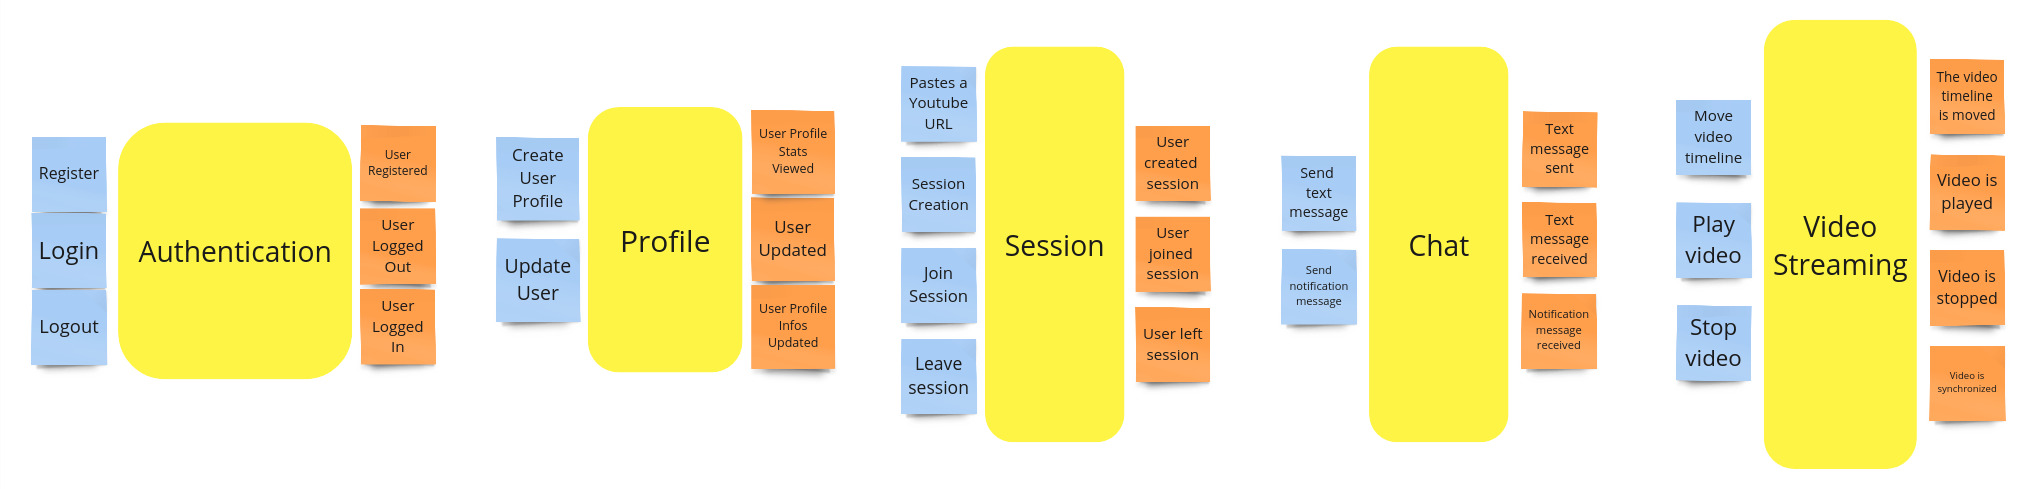
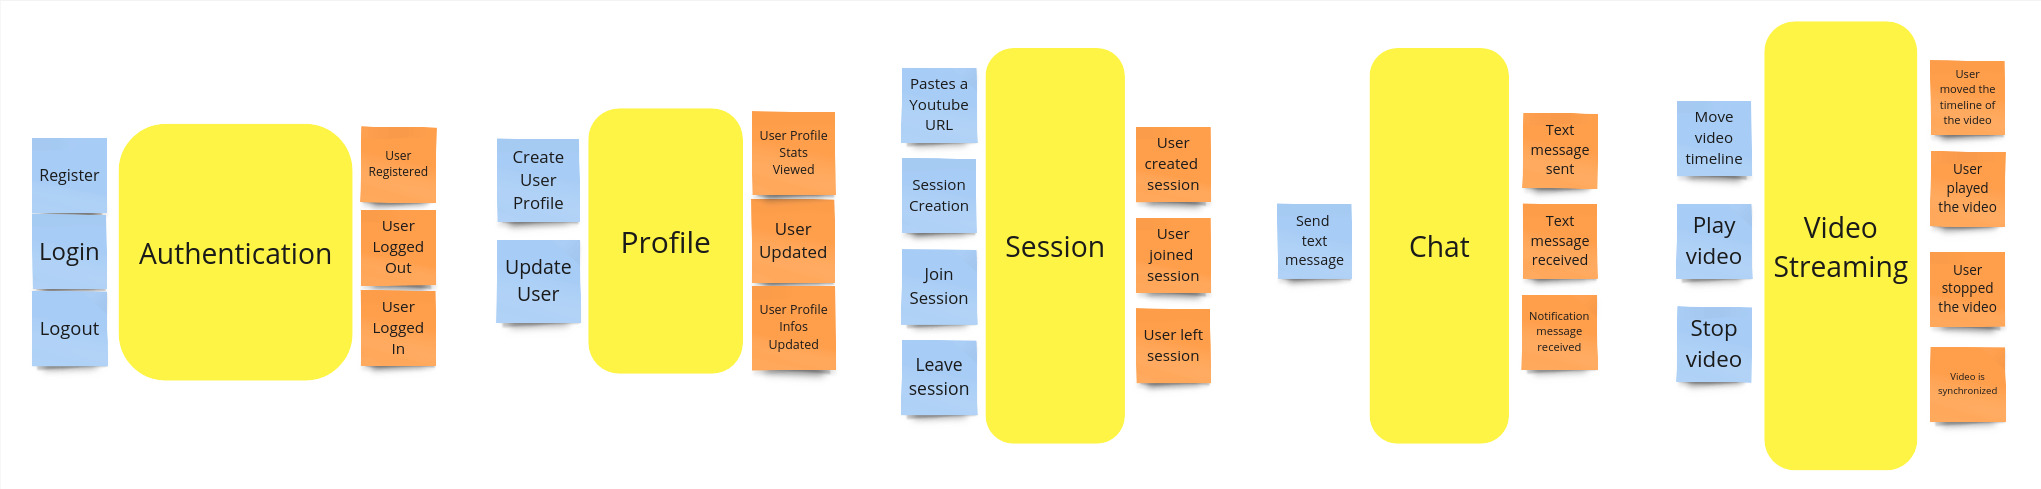
chore: update event storming

diff --git a/docs/report/ddd/event-storming.md b/docs/report/ddd/event-storming.md
@@ -45,12 +45,19 @@ The team identifies the commands that trigger the domain events, and their respe
 ![Commands](/img/ddd/event_storming/commands.jpg)
 
 
-## Policies
+## Reactions
 
-Policies are commands without an actor, that are executed in the system.
+Reactions are something that happen when something else happens.
+They outline actions triggered when an event occurs.
 
+![Reactions](/img/ddd/event_storming/reactions.jpg)
 
-![Policies](/img/ddd/event_storming/policies.jpg)
+## Read models
+
+Read models encompass data that is read in a particular context.
+
+![Read Models](/img/ddd/event_storming/read_models.jpg)
+
 
 ## Aggregates
 
